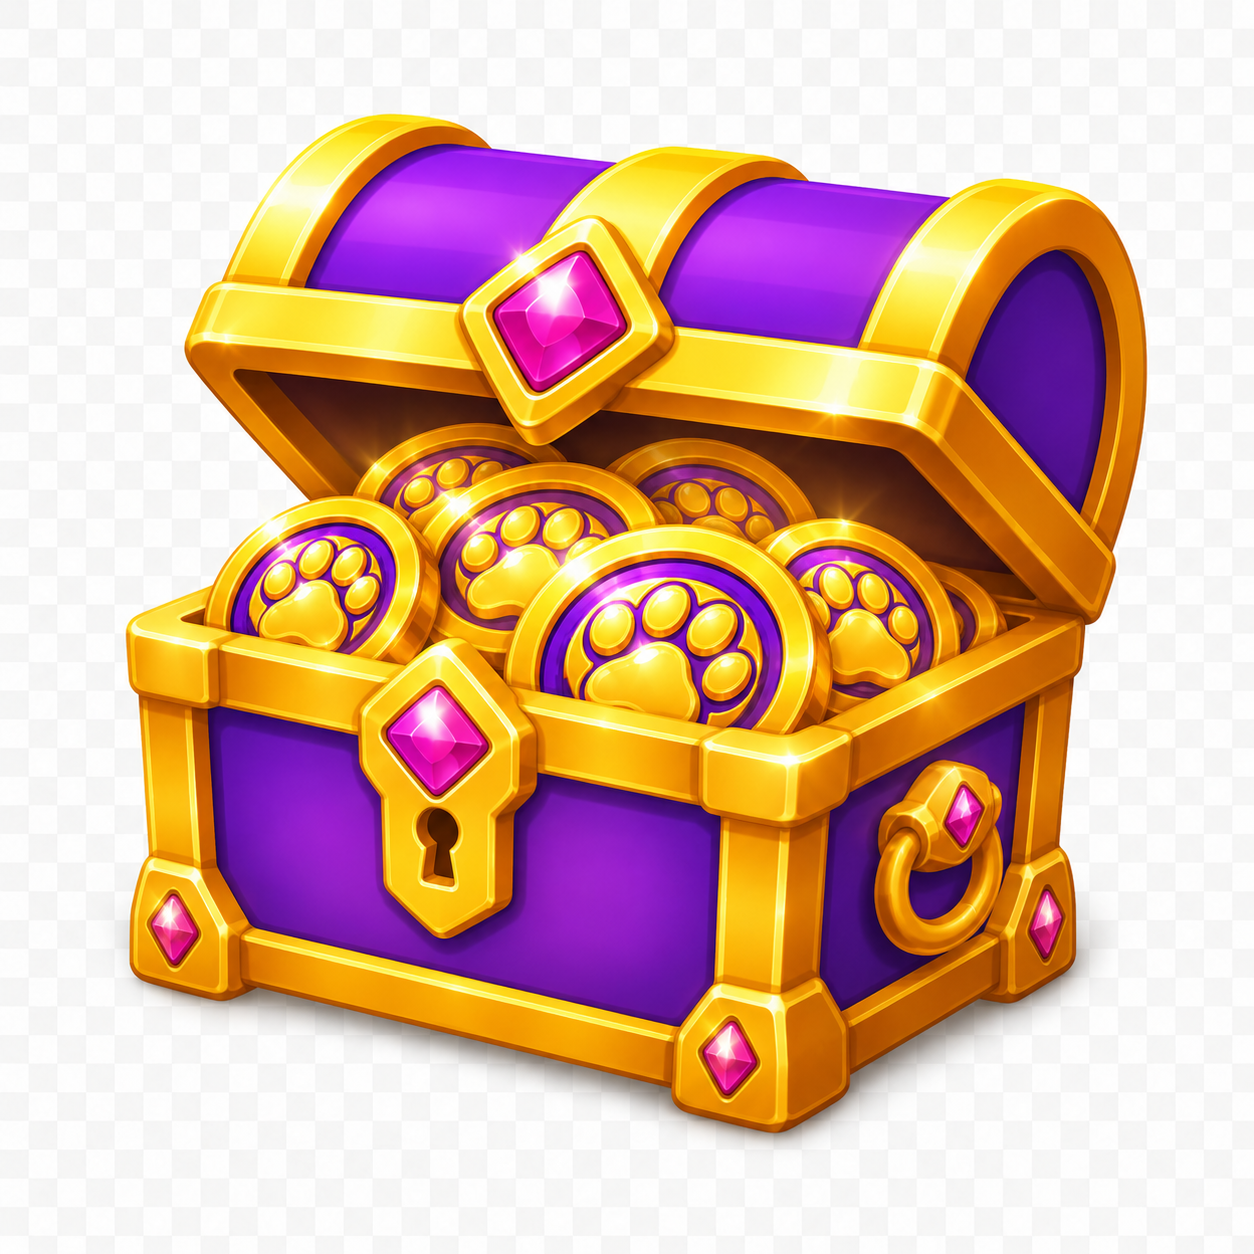
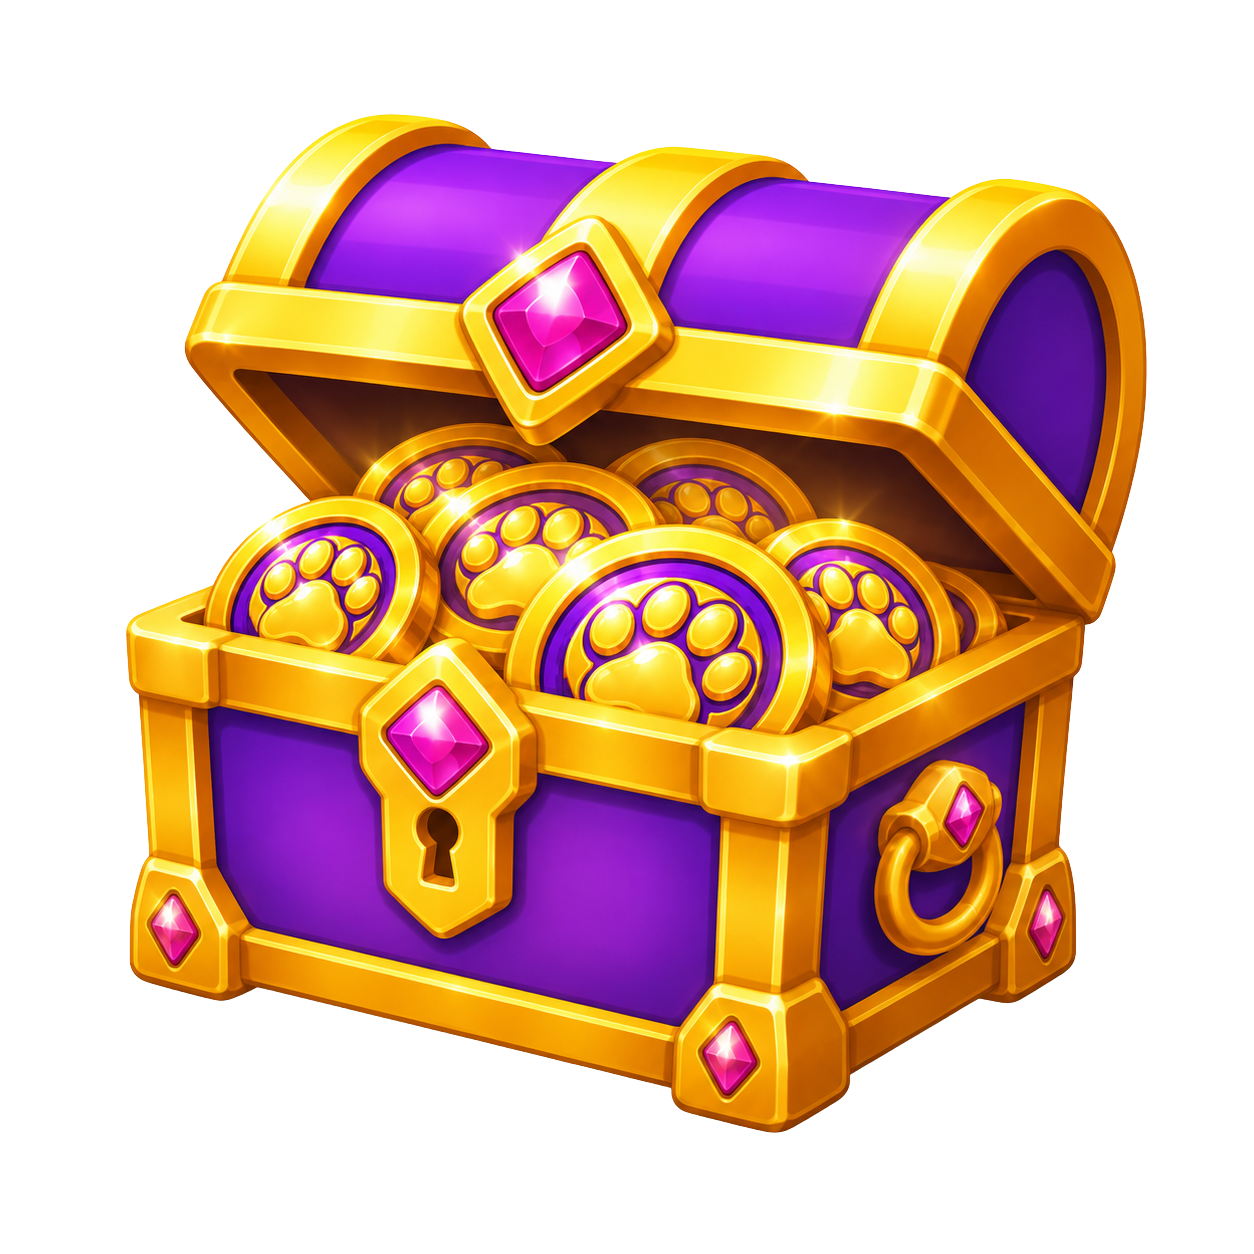
fix: show full power-up names in offer popup + refresh images
SpecialOffer popup was stripping item labels and only showing '×1'.
Now shows full label ('X-Ray ×1', 'Freeze ×1', 'Shuffle ×1').
Also re-stages updated chest.png, 1.png and dot.png assets.

Changed region(s): [[0.0933, 0.7153, 0.9019, 0.933]]

diff --git a/src/components/SpecialOffer.jsx b/src/components/SpecialOffer.jsx
@@ -77,7 +77,7 @@ export default function SpecialOffer({ onClose, onBuy }) {
           {ITEMS.map(item => (
             <div key={item.label} className={styles.itemChip}>
               <img src={item.image} alt={item.label} className={styles.itemIcon} />
-              <span className={styles.itemQty}>{item.label.includes('×') ? item.label.split(' ')[1] : item.label}</span>
+              <span className={styles.itemQty}>{item.label}</span>
             </div>
           ))}
         </div>